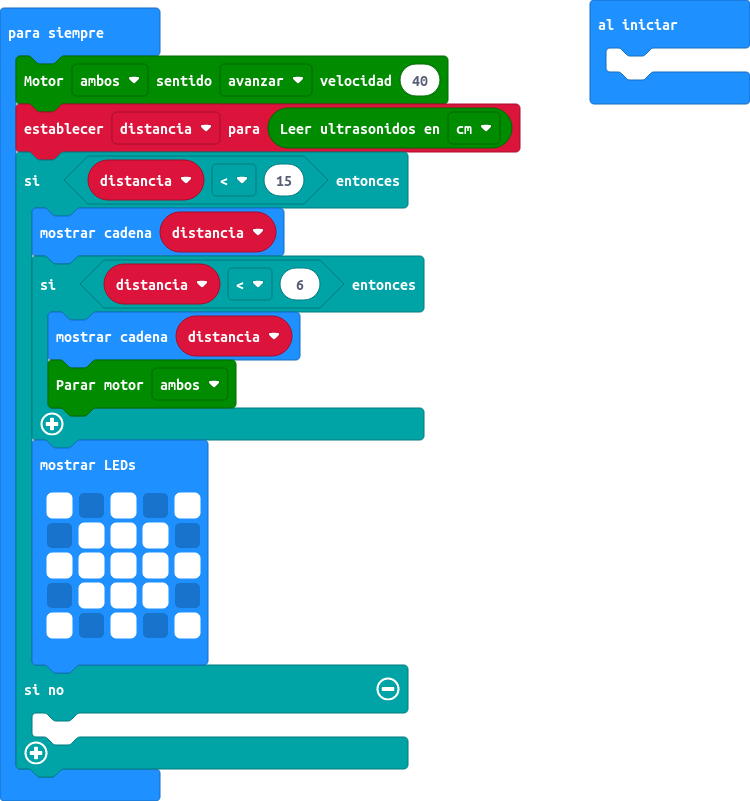
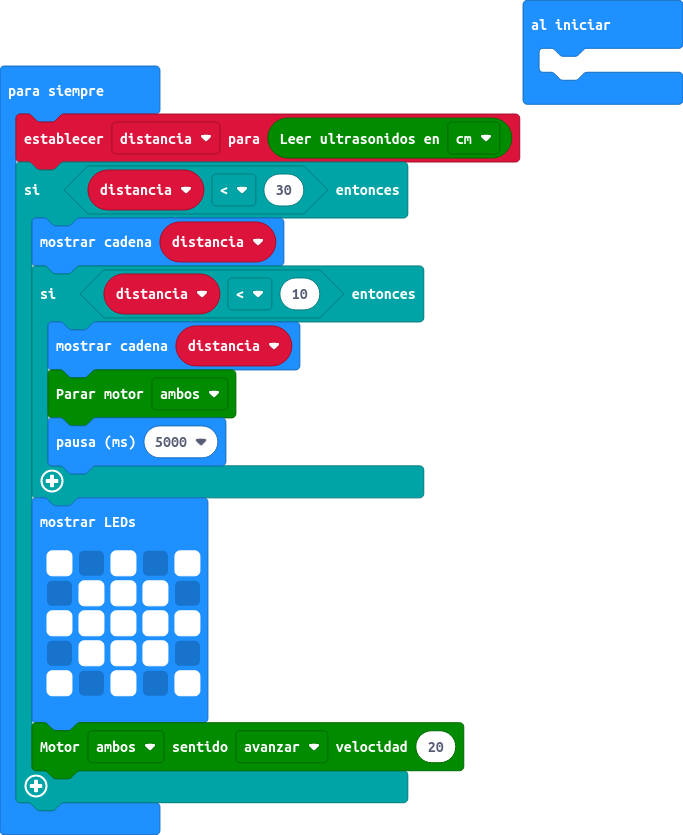
Actualizar main.blocks, main.ts

Changed region(s): [[0.0, 0.0, 1.0, 1.0]]

diff --git a/main.ts b/main.ts
@@ -1,12 +1,12 @@
 let distancia = 0
 basic.forever(function () {
-    maqueen.motorRun(maqueen.Motors.All, maqueen.Dir.CW, 40)
     distancia = maqueen.Ultrasonic(PingUnit.Centimeters)
-    if (distancia < 15) {
+    if (distancia < 30) {
         basic.showString("" + (distancia))
-        if (distancia < 6) {
+        if (distancia < 10) {
             basic.showString("" + (distancia))
             maqueen.motorStop(maqueen.Motors.All)
+            basic.pause(5000)
         }
         basic.showLeds(`
             # . # . #
@@ -15,7 +15,6 @@ basic.forever(function () {
             . # # # .
             # . # . #
             `)
-    } else {
-    	
+        maqueen.motorRun(maqueen.Motors.All, maqueen.Dir.CW, 20)
     }
 })
